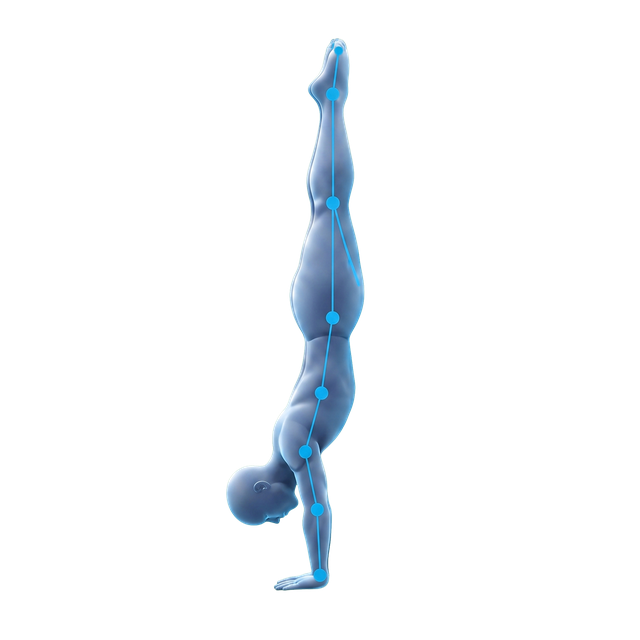
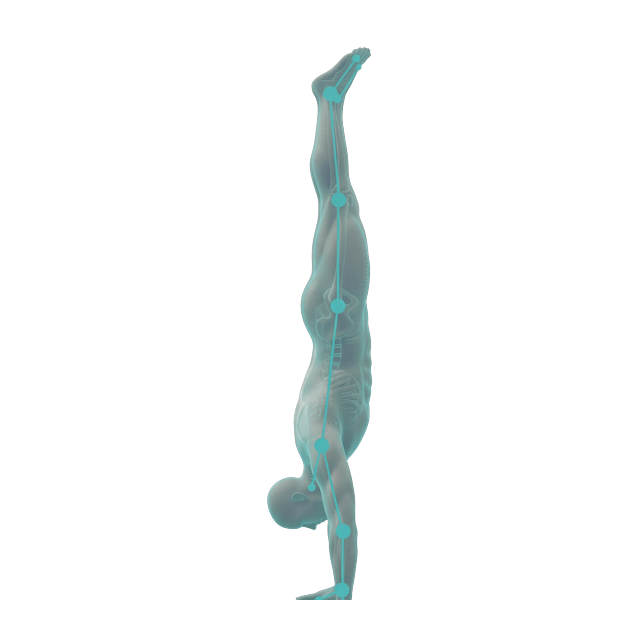
Ameliore branding et corrige orthographe des sections du formulaire
- Accueil : logo complet (emblème + wordmark CalisIQ) au lieu de
  l'emblème seul, espacement du slogan corrigé sur connexion et accueil
- Nouvelle image handstand (fond vert, meilleure qualité), reutilisee
  aussi pour la variante Handstand
- Figure -> Figures, Variation -> Variations, Type d'exercice ->
  Types d'exercice

Changed region(s): [[0.3438, 0.0625, 0.5938, 0.9375]]

diff --git a/src/app/(app)/_components/AnalysisForm.tsx b/src/app/(app)/_components/AnalysisForm.tsx
@@ -91,7 +91,13 @@ const VARIATIONS_BY_FIGURE: Record<Figure, VariationOption[]> = {
     },
   ],
   handstand: [
-    { value: "handstand", label: "Handstand", Icon: HandstandFigureIcon, available: false },
+    {
+      value: "handstand",
+      label: "Handstand",
+      Icon: HandstandFigureIcon,
+      available: false,
+      image: "/figures/handstand.png",
+    },
     { value: "handstand_push_up", label: "Handstand Push-up", Icon: HandstandPushUpIcon, available: false },
     { value: "one_arm_handstand", label: "One Arm Handstand", Icon: OneArmHandstandIcon, available: false },
   ],
@@ -462,7 +468,7 @@ export default function AnalysisForm() {
 
       <div className="space-y-3">
         <p className="text-xs font-medium uppercase tracking-wide text-slate-500">
-          Figure
+          Figures
         </p>
         <div className="grid grid-cols-2 gap-3">
           {FIGURES.map((f) => {
@@ -513,7 +519,7 @@ export default function AnalysisForm() {
       <>
       <div className="space-y-3">
         <p className="text-xs font-medium uppercase tracking-wide text-slate-500">
-          Variation
+          Variations
         </p>
         <div className={`grid gap-2 ${figure === "planche" ? "grid-cols-4" : "grid-cols-3"}`}>
           {VARIATIONS_BY_FIGURE[figure].map((v) => {
@@ -564,7 +570,7 @@ export default function AnalysisForm() {
 
       <div className="space-y-3">
         <p className="text-xs font-medium uppercase tracking-wide text-slate-500">
-          Type d&apos;exercice
+          Types d&apos;exercice
         </p>
         <div className="grid grid-cols-3 gap-2">
           {EXERCISE_TYPES.map((t) => {

diff --git a/src/app/login/page.tsx b/src/app/login/page.tsx
@@ -37,22 +37,23 @@ export default function LoginPage() {
 
   return (
     <div className="flex min-h-screen flex-col items-center justify-center gap-2 bg-slate-950 p-4">
-      <div className="relative -mb-2 w-full max-w-[300px]">
-        <div
-          aria-hidden
-          className="pointer-events-none absolute inset-0 rounded-full bg-cyan-500/25 blur-3xl"
-        />
-        {/* eslint-disable-next-line @next/next/no-img-element */}
-        <img
-          src="/logo-full.png"
-          alt="CalisIQ"
-          className="relative w-full drop-shadow-[0_0_25px_rgba(34,211,238,0.35)]"
-        />
+      <div className="relative flex w-full max-w-[300px] flex-col items-center gap-2">
+        <div className="relative w-full">
+          <div
+            aria-hidden
+            className="pointer-events-none absolute inset-0 rounded-full bg-cyan-500/25 blur-3xl"
+          />
+          {/* eslint-disable-next-line @next/next/no-img-element */}
+          <img
+            src="/logo-full.png"
+            alt="CalisIQ"
+            className="relative w-full drop-shadow-[0_0_25px_rgba(34,211,238,0.35)]"
+          />
+        </div>
+        <p className="text-center text-xs font-semibold uppercase tracking-[0.25em] text-cyan-400/90">
+          Analyse Intelligente de la Forme
+        </p>
       </div>
-
-      <p className="relative -mt-3 mb-1 text-center text-[11px] font-semibold uppercase tracking-[0.25em] text-cyan-400/90">
-        Analyse Intelligente de la Forme
-      </p>
 
       <form
         onSubmit={handleSubmit}

diff --git a/src/app/(app)/page.tsx b/src/app/(app)/page.tsx
@@ -9,16 +9,17 @@ export default function AccueilPage() {
         className="pointer-events-none absolute -top-16 left-1/2 h-80 w-80 -translate-x-1/2 rounded-full bg-cyan-500/20 blur-3xl"
       />
 
-      {/* eslint-disable-next-line @next/next/no-img-element */}
-      <img
-        src="/logo-emblem.png"
-        alt="CalisIQ"
-        className="relative h-32 w-32 drop-shadow-[0_0_22px_rgba(34,211,238,0.4)]"
-      />
-
-      <p className="relative -mt-4 text-center text-[11px] font-semibold uppercase tracking-[0.25em] text-cyan-400/90">
-        Analyse Intelligente de la Forme
-      </p>
+      <div className="relative flex flex-col items-center gap-2">
+        {/* eslint-disable-next-line @next/next/no-img-element */}
+        <img
+          src="/logo-full.png"
+          alt="CalisIQ"
+          className="h-44 w-auto drop-shadow-[0_0_22px_rgba(34,211,238,0.4)]"
+        />
+        <p className="text-center text-xs font-semibold uppercase tracking-[0.25em] text-cyan-400/90">
+          Analyse Intelligente de la Forme
+        </p>
+      </div>
 
       <div className="relative w-full max-w-md">
         <p className="text-sm text-slate-400">
